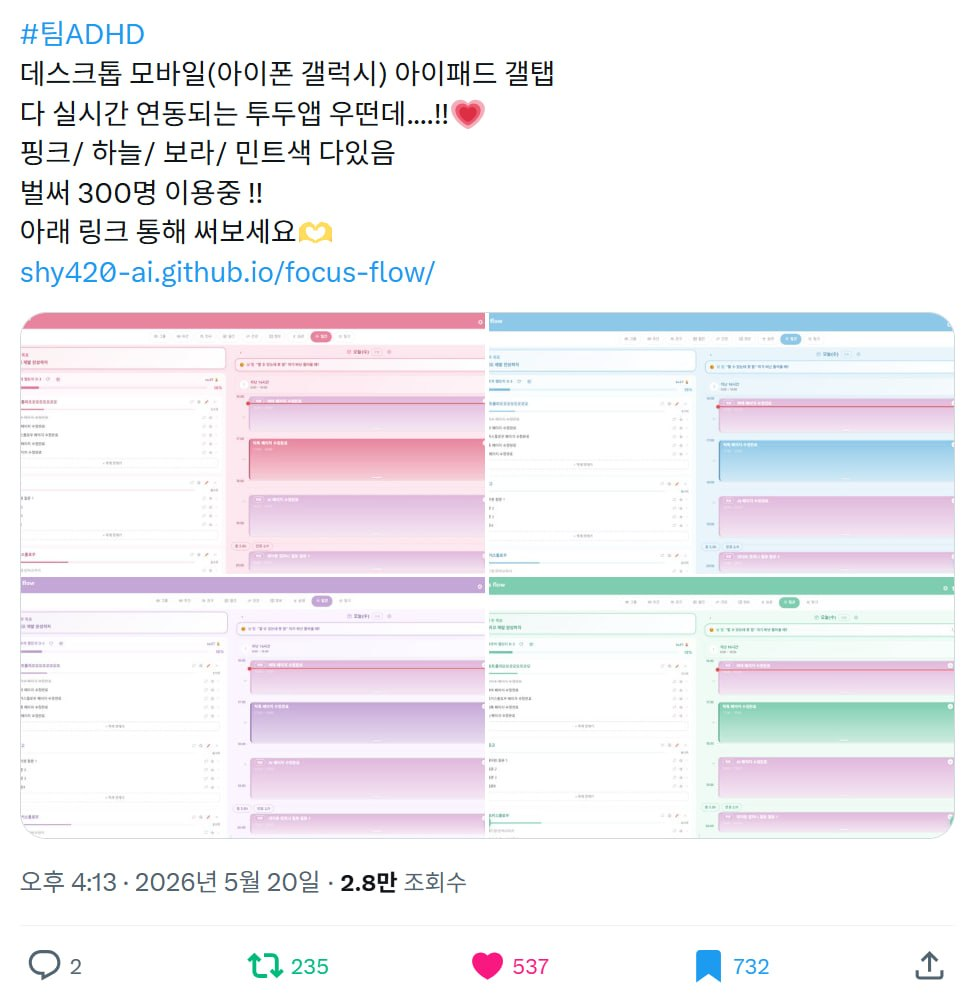
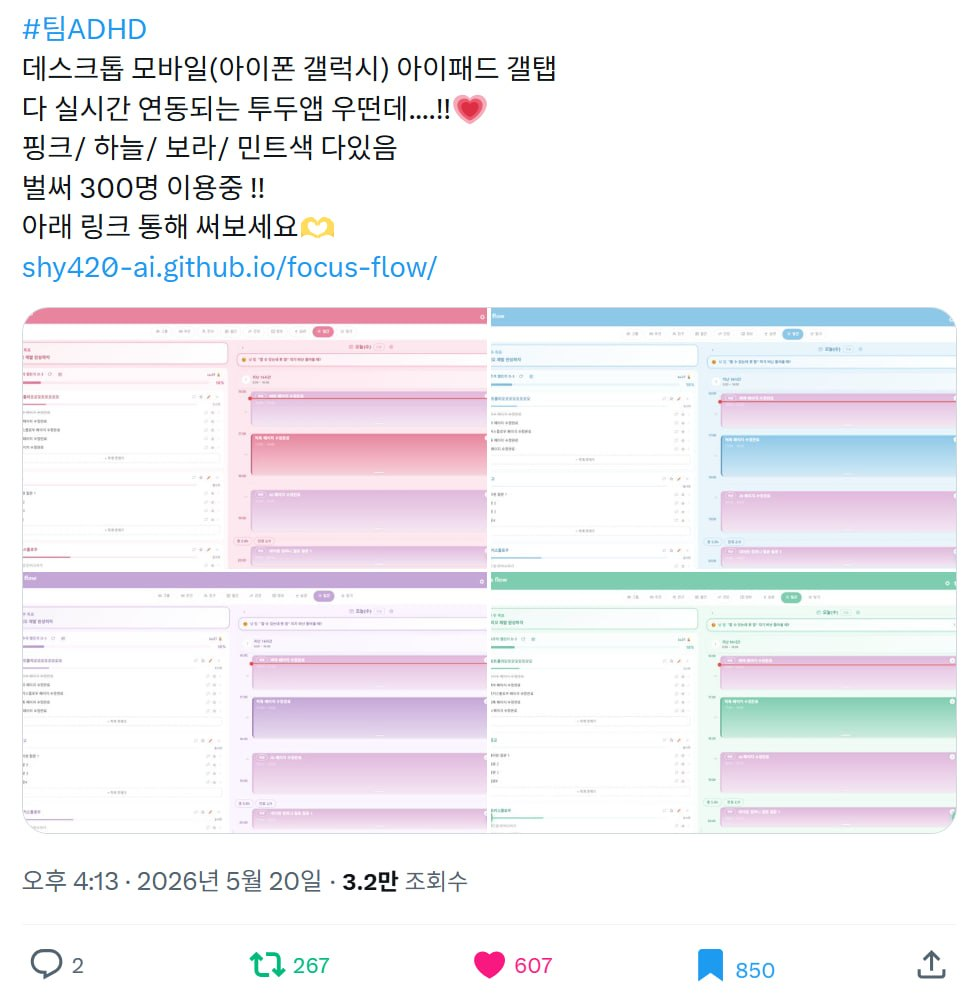
03-4 단일 트윗 데이터 갱신 — 신규 유저 +100→+140명, 노출 2.8만→3.2만, 북마크 732→850, 좋아요 537→607, 리트윗 235→267. 트윗 이미지 (case03-visual-demo-tweet.jpg) 새 본 으로 교체 (3.2만 조회수 시점). 사회적 증명 캡션에 '포커스플로우' 명시 — 벌써 300명 이용중

diff --git a/index.html b/index.html
@@ -4152,11 +4152,11 @@
         </div>
       </div>
 
-      <!-- ── 03-4 비주얼 데모 + 사회적 증명 트윗 — 1일 신규 유저 +100명 ─── -->
+      <!-- ── 03-4 비주얼 데모 + 사회적 증명 트윗 — 1일 신규 유저 +140명 ─── -->
       <div class="case-chapter">
         <div>
           <span class="ch-num">03-4</span>
-          <span class="ch-title">비주얼 데모 + 사회적 증명 트윗 — 광고비 0원, 1일 신규 유저 +100명</span>
+          <span class="ch-title">비주얼 데모 + 사회적 증명 트윗 — 광고비 0원, 1일 신규 유저 +140명</span>
         </div>
       </div>
       <div class="case-section-framing" style="text-align: center;">
@@ -4168,7 +4168,7 @@
           <div class="cycle-example">
             <div class="cycle-example-label" style="text-align: center;">단일 트윗 — 비주얼 데모 + 사회적 증명 결합</div>
             <a href="https://twitter.com/edge_marketer" target="_blank" rel="noopener" style="display:block;">
-              <img src="case03-visual-demo-tweet.jpg" alt="포커스플로우 4색 테마 트윗 — 데스크탑·모바일·아이패드 실시간 연동, 벌써 300명 이용중, 광고비 0원으로 1일 +100 신규 유저" loading="lazy">
+              <img src="case03-visual-demo-tweet.jpg" alt="포커스플로우 4색 테마 트윗 — 데스크탑·모바일·아이패드 실시간 연동, 벌써 300명 이용중, 광고비 0원으로 1일 +140 신규 유저" loading="lazy">
             </a>
           </div>
         </div>
@@ -4180,33 +4180,33 @@
               <div class="cohort-chart-title">하루 단일 트윗 노출 → 신규 사용자 획득</div>
             </div>
             <div>
-              <div class="cohort-chart-delta">+100명</div>
+              <div class="cohort-chart-delta">+140명</div>
               <div class="cohort-chart-delta-sub">신규 유저 · 1일</div>
             </div>
           </div>
 
           <div style="display: grid; grid-template-columns: repeat(4, 1fr); gap: 12px; margin-top: 16px;">
             <div style="text-align:center; padding: 14px 8px; background: #fafafa; border-radius: 4px;">
-              <div style="font-family: 'Noto Sans KR', sans-serif; font-weight: 900; font-size: 24px; color: #c0392b; line-height: 1;">2.8만</div>
+              <div style="font-family: 'Noto Sans KR', sans-serif; font-weight: 900; font-size: 24px; color: #c0392b; line-height: 1;">3.2만</div>
               <div style="font-size: 11px; color: #888; margin-top: 6px;">노출수</div>
             </div>
             <div style="text-align:center; padding: 14px 8px; background: #fafafa; border-radius: 4px;">
-              <div style="font-family: 'Noto Sans KR', sans-serif; font-weight: 900; font-size: 24px; color: #c0392b; line-height: 1;">732</div>
+              <div style="font-family: 'Noto Sans KR', sans-serif; font-weight: 900; font-size: 24px; color: #c0392b; line-height: 1;">850</div>
               <div style="font-size: 11px; color: #888; margin-top: 6px;">북마크</div>
             </div>
             <div style="text-align:center; padding: 14px 8px; background: #fafafa; border-radius: 4px;">
-              <div style="font-family: 'Noto Sans KR', sans-serif; font-weight: 900; font-size: 24px; color: #c0392b; line-height: 1;">537</div>
+              <div style="font-family: 'Noto Sans KR', sans-serif; font-weight: 900; font-size: 24px; color: #c0392b; line-height: 1;">607</div>
               <div style="font-size: 11px; color: #888; margin-top: 6px;">좋아요</div>
             </div>
             <div style="text-align:center; padding: 14px 8px; background: #fafafa; border-radius: 4px;">
-              <div style="font-family: 'Noto Sans KR', sans-serif; font-weight: 900; font-size: 24px; color: #c0392b; line-height: 1;">235</div>
+              <div style="font-family: 'Noto Sans KR', sans-serif; font-weight: 900; font-size: 24px; color: #c0392b; line-height: 1;">267</div>
               <div style="font-size: 11px; color: #888; margin-top: 6px;">리트윗</div>
             </div>
           </div>
 
           <div class="cohort-explain">
             <div class="cohort-explain-label">— 한 줄로 풀면</div>
-            <p>한 장 비주얼 (4 색 테마 + 다중 디바이스 연동) + 사회적 증명 ("벌써 300명 이용중") + 짧은 링크 CTA 결합 → <em>광고비 0원, 1일 신규 유저 +100명</em>. <em>북마크 732</em> 가 잠재 전환 풀로 누적 — 즉시 가입 안 했지만 '나중에' 저장한 사용자 확보.</p>
+            <p>한 장 비주얼 (4 색 테마 + 다중 디바이스 연동) + 사회적 증명 (<em>포커스플로우 — 벌써 300명 이용중</em>) + 짧은 링크 CTA 결합 → <em>광고비 0원, 1일 신규 유저 +140명</em>. <em>북마크 850</em> 이 잠재 전환 풀로 누적 — 즉시 가입 안 했지만 '나중에' 저장한 사용자 확보.</p>
             <p style="color:#666; font-size:11.5px; margin-top:10px;">⚠ 단일 트윗 hit 은 <em>그 전 N 개 변주 시도</em> 의 누적 결과 — algorithmic relevance 가 쌓인 baseline 위에서 한 컨텐츠가 폭발한 구조. Test & Learn → Double Down 사이클의 산물.</p>
           </div>
 